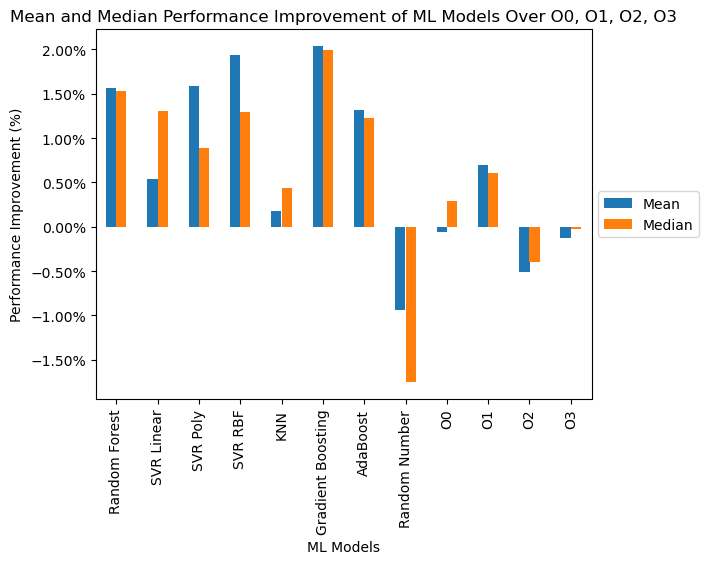
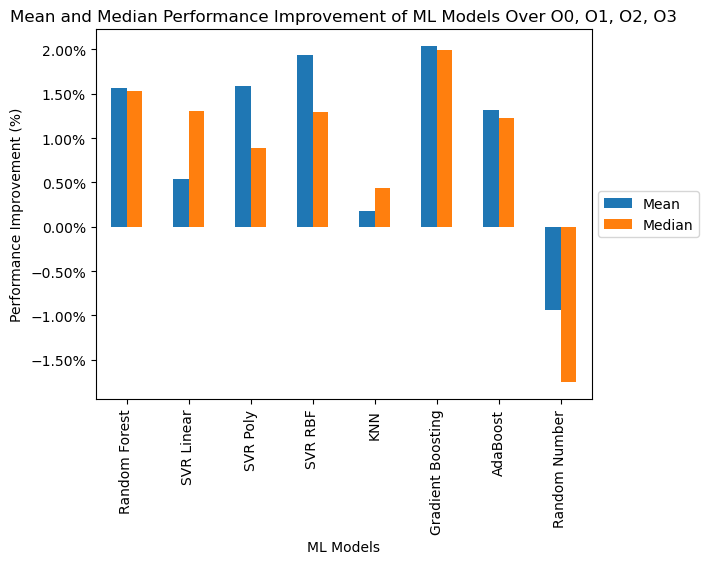
Optimize visualization.py and fix graphs

diff --git a/mlModel/visualization.py b/mlModel/visualization.py
@@ -19,6 +19,7 @@ plt.ylabel('Raw Times')
 plt.title('Raw Times of Files')
 plt.legend(loc='center left', bbox_to_anchor=(1.0, 0.5))
 plt.savefig('../figures/BarGraph_Files_RawTimes.png', bbox_inches='tight')
+plt.close()
 
 # Plot with ML models as x-axis for raw times
 plt.figure(figsize=figsize)  # Use the figure size variable
@@ -28,6 +29,7 @@ plt.ylabel('Raw Times')
 plt.title('Raw Times of ML Models')
 plt.legend(loc='center left', bbox_to_anchor=(1.0, 0.5))
 plt.savefig('../figures/BarGraph_Models_RawTimes.png', bbox_inches='tight')
+plt.close()
 
 # Calculate percent change compared to O3 times
 plt.figure(figsize=figsize)  # Use the figure size variable
@@ -39,6 +41,7 @@ plt.title('Performance Improvement of Files Over O3')
 plt.gca().yaxis.set_major_formatter(mtick.PercentFormatter())
 plt.legend(loc='center left', bbox_to_anchor=(1.0, 0.5))
 plt.savefig('../figures/BarGraph_Files_O3.png', bbox_inches='tight')
+plt.close()
 
 # Plot with ML models as x-axis for percent change compared to O3 times
 plt.figure(figsize=figsize)  # Use the figure size variable
@@ -49,6 +52,7 @@ plt.title('Performance Improvement of ML Models Over O3')
 plt.gca().yaxis.set_major_formatter(mtick.PercentFormatter())
 plt.legend(loc='center left', bbox_to_anchor=(1.0, 0.5))
 plt.savefig('../figures/BarGraph_Models_O3.png', bbox_inches='tight')
+plt.close()
 
 # Calculate percent change compared to O2 times
 plt.figure(figsize=figsize)  # Use the figure size variable
@@ -60,6 +64,7 @@ plt.title('Performance Improvement of Files Over O2')
 plt.gca().yaxis.set_major_formatter(mtick.PercentFormatter())
 plt.legend(loc='center left', bbox_to_anchor=(1.0, 0.5))
 plt.savefig('../figures/BarGraph_Files_O2.png', bbox_inches='tight')
+plt.close()
 
 # Plot with ML models as x-axis for percent change compared to O2 times
 plt.figure(figsize=figsize)  # Use the figure size variable
@@ -70,6 +75,7 @@ plt.title('Performance Improvement of ML Models Over O2')
 plt.gca().yaxis.set_major_formatter(mtick.PercentFormatter())
 plt.legend(loc='center left', bbox_to_anchor=(1.0, 0.5))
 plt.savefig('../figures/BarGraph_Models_O2.png', bbox_inches='tight')
+plt.close()
 
 # Calculate percent change compared to O1 times
 plt.figure(figsize=figsize)  # Use the figure size variable
@@ -81,6 +87,7 @@ plt.title('Performance Improvement of Files Over O1')
 plt.gca().yaxis.set_major_formatter(mtick.PercentFormatter())
 plt.legend(loc='center left', bbox_to_anchor=(1.0, 0.5))
 plt.savefig('../figures/BarGraph_Files_O1.png', bbox_inches='tight')
+plt.close()
 
 # Plot with ML models as x-axis for percent change compared to O1 times
 plt.figure(figsize=figsize)  # Use the figure size variable
@@ -91,6 +98,7 @@ plt.title('Performance Improvement of ML Models Over O1')
 plt.gca().yaxis.set_major_formatter(mtick.PercentFormatter())
 plt.legend(loc='center left', bbox_to_anchor=(1.0, 0.5))
 plt.savefig('../figures/BarGraph_Models_O1.png', bbox_inches='tight')
+plt.close()
 
 # Calculate percent change compared to O0 times
 plt.figure(figsize=figsize)  # Use the figure size variable
@@ -102,6 +110,7 @@ plt.title('Performance Improvement of Files Over O0')
 plt.gca().yaxis.set_major_formatter(mtick.PercentFormatter())
 plt.legend(loc='center left', bbox_to_anchor=(1.0, 0.5))
 plt.savefig('../figures/BarGraph_Files_O0.png', bbox_inches='tight')
+plt.close()
 
 # Plot with ML models as x-axis for percent change compared to O0 times
 plt.figure(figsize=figsize)  # Use the figure size variable
@@ -112,13 +121,15 @@ plt.title('Performance Improvement of ML Models Over O0')
 plt.gca().yaxis.set_major_formatter(mtick.PercentFormatter())
 plt.legend(loc='center left', bbox_to_anchor=(1.0, 0.5))
 plt.savefig('../figures/BarGraph_Models_O0.png', bbox_inches='tight')
+plt.close()
 
 # Calculate percent change compared to O0, O1, O2, O3 times
 df_o0_o3 = df.div(df[['O0', 'O1', 'O2', 'O3']].mean(axis=1), axis=0) - 1
 
 # Calculate mean and median performance improvement for each model
-mean_improvement = df_o0_o3.mean() * 100
-median_improvement = df_o0_o3.median() * 100
+# Remove the last 4 colums (O0, O1, O2, O3)
+mean_improvement = df_o0_o3.iloc[:, :-4].mean() * 100
+median_improvement = df_o0_o3.iloc[:, :-4].median() * 100
 
 # Create a new DataFrame for the mean and median improvement
 df_improvement = pd.DataFrame({'Mean': mean_improvement, 'Median': median_improvement})
@@ -132,6 +143,7 @@ plt.title('Mean and Median Performance Improvement of ML Models Over O0, O1, O2,
 plt.gca().yaxis.set_major_formatter(mtick.PercentFormatter())
 plt.legend(loc='center left', bbox_to_anchor=(1.0, 0.5))
 plt.savefig('../figures/Total_Models_Improvement.png', bbox_inches='tight')
+plt.close()
 
 # Optimization levels to compare against
 optimization_levels = ['O1', 'O2', 'O3']
@@ -142,9 +154,11 @@ for opt_level in optimization_levels:
     # Replace negative values with zero
     # df_opt = df_opt.clip(lower=0)
     
+    # Remove the optimization level column (O0, O1, O2, O3)
     # Calculate mean and median performance improvement for each model
-    mean_improvement = df_opt.mean() * 100
-    median_improvement = df_opt.median() * 100
+    mean_improvement = df_opt.iloc[:, :-4].mean() * 100
+    median_improvement = df_opt.iloc[:, :-4].median() * 100
+
 
     # Create a new DataFrame for the mean and median improvement
     df_improvement = pd.DataFrame({'Mean': mean_improvement, 'Median': median_improvement})
@@ -158,3 +172,4 @@ for opt_level in optimization_levels:
     plt.gca().yaxis.set_major_formatter(mtick.PercentFormatter())
     plt.legend(loc='center left', bbox_to_anchor=(1.0, 0.5))
     plt.savefig(f'../figures/Total_Models_Improvement_{opt_level}.png', bbox_inches='tight')
+    plt.close()
